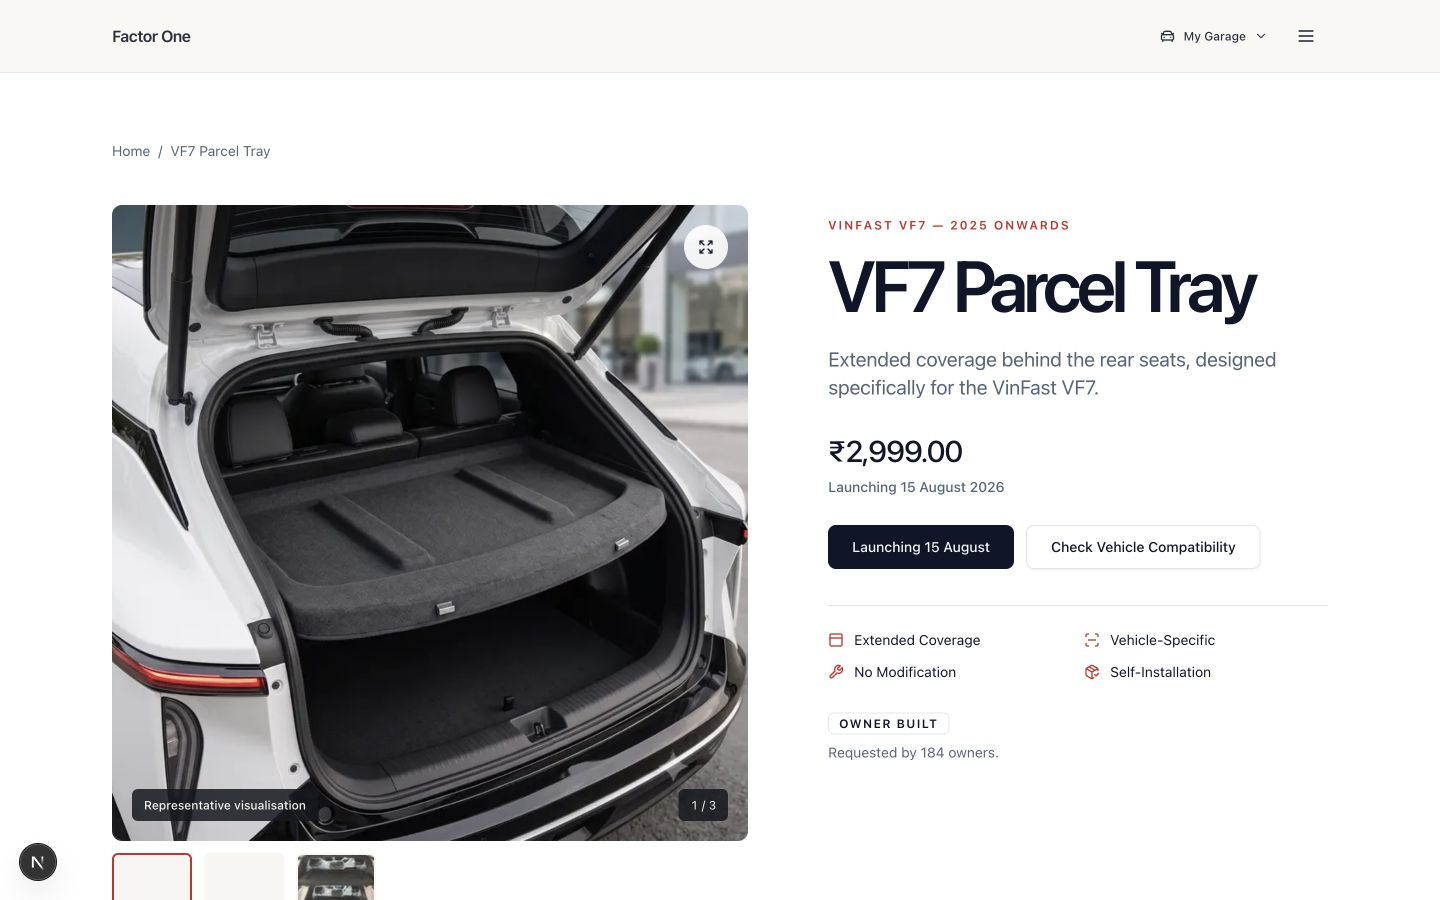
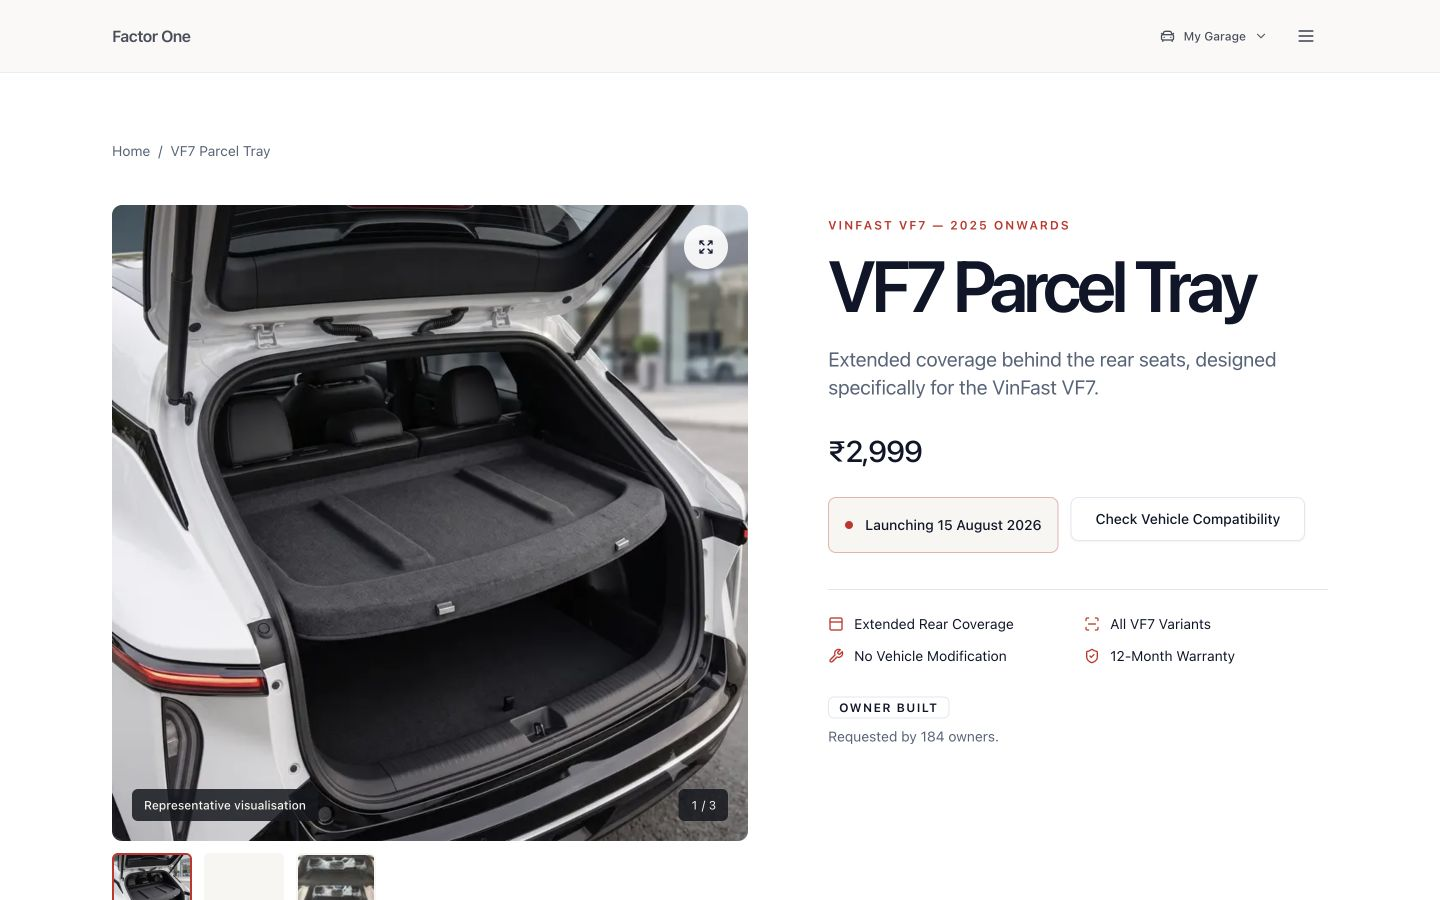
fix: refine Parcel Tray mobile presentation

diff --git a/apps/web/src/components/product/product-reference-page.tsx b/apps/web/src/components/product/product-reference-page.tsx
@@ -37,6 +37,8 @@ interface ProductReferencePageProps {
 function formatPrice(amountMinor: number, currency: string) {
   return new Intl.NumberFormat('en-IN', {
     currency,
+    maximumFractionDigits: 0,
+    minimumFractionDigits: 0,
     style: 'currency',
   }).format(amountMinor / 100);
 }
@@ -116,7 +118,7 @@ const coreBenefitItems = [
   {
     icon: ScanLine,
     title: 'Vehicle-Specific',
-    description: 'Developed for the VinFast VF7',
+    description: 'Listed for every supported VF7 variant',
   },
   {
     icon: Wrench,
@@ -128,6 +130,13 @@ const coreBenefitItems = [
     title: 'Self-Installation',
     description: 'No additional mounting hardware',
   },
+] as const;
+
+const heroTrustItems = [
+  { icon: PanelTop, title: 'Extended Rear Coverage' },
+  { icon: ScanLine, title: 'All VF7 Variants' },
+  { icon: Wrench, title: 'No Vehicle Modification' },
+  { icon: ShieldCheck, title: '12-Month Warranty' },
 ] as const;
 
 const ownershipItems = [
@@ -216,14 +225,14 @@ export function ProductReferencePage({
   return (
     <>
       <section
-        className="section-space scroll-mt-24 pt-10 sm:pt-14"
+        className="section-space scroll-mt-24 pt-5 sm:pt-10 lg:pt-14"
         aria-labelledby="product-heading"
       >
         <Container>
           <Breadcrumbs
             items={[{ href: '/', label: 'Home' }, { label: product.name }]}
           />
-          <div className="mt-8 grid items-start gap-9 lg:grid-cols-[minmax(0,1.12fr)_minmax(24rem,0.88fr)] lg:gap-14 xl:gap-20">
+          <div className="mt-3 grid items-start gap-6 sm:mt-5 sm:gap-8 lg:mt-8 lg:grid-cols-[minmax(0,1.12fr)_minmax(24rem,0.88fr)] lg:gap-14 xl:gap-20">
             <ProductHeroGallery media={media} productName={product.name} />
 
             <div className="lg:pt-3">
@@ -235,42 +244,45 @@ export function ProductReferencePage({
               </p>
               <h1
                 id="product-heading"
-                className="mt-4 text-balance text-5xl font-semibold leading-[0.94] tracking-[-0.06em] sm:text-6xl xl:text-7xl"
+                className="mt-2 text-balance text-5xl font-semibold leading-[0.94] tracking-[-0.06em] sm:mt-4 sm:text-6xl xl:text-7xl"
               >
                 {product.name}
               </h1>
-              <p className="text-muted-foreground mt-6 max-w-xl text-lg leading-8 sm:text-xl">
+              <p className="text-muted-foreground mt-3 max-w-xl text-lg leading-8 sm:mt-6 sm:text-xl">
                 {presentation.heroValueStatement}
               </p>
 
               {content.price ? (
-                <p className="mt-8 text-3xl font-medium tracking-[-0.045em]">
+                <p className="mt-4 text-3xl font-medium tracking-[-0.045em] sm:mt-8">
                   {formatPrice(
                     content.price.amountMinor,
                     content.price.currency,
                   )}
                 </p>
               ) : null}
-              {content.launchDate ? (
-                <p className="text-muted-foreground mt-2 text-sm font-medium">
-                  Launching {content.launchDate.label}
-                </p>
-              ) : null}
-
-              <div className="mt-7 flex flex-col gap-3 sm:flex-row">
-                <p
-                  className="bg-primary text-primary-foreground inline-flex h-11 items-center justify-center rounded-md px-6 text-sm font-medium"
-                  role="status"
-                >
-                  Launching 15 August
-                </p>
+              <div className="mt-4 flex flex-col gap-3 sm:mt-7 sm:flex-row">
+                {content.launchDate ? (
+                  <div
+                    className="border-factor-red/35 bg-warm inline-flex min-h-14 items-center gap-3 rounded-md border px-4 py-3 text-sm"
+                    role="status"
+                    aria-label={`Launch status: Launching ${content.launchDate.label}`}
+                  >
+                    <span
+                      className="bg-factor-red size-2 shrink-0 rounded-full"
+                      aria-hidden="true"
+                    />
+                    <span className="font-medium">
+                      Launching {content.launchDate.label}
+                    </span>
+                  </div>
+                ) : null}
                 <Button asChild variant="outline" size="lg" className="px-6">
                   <Link href="/compatibility">Check Vehicle Compatibility</Link>
                 </Button>
               </div>
 
-              <ul className="border-border mt-9 grid gap-3 border-t pt-6 text-sm sm:grid-cols-2">
-                {coreBenefitItems.map(({ icon: Icon, title }) => (
+              <ul className="border-border mt-6 grid gap-2 border-t pt-5 text-sm sm:mt-9 sm:grid-cols-2 sm:gap-3 sm:pt-6">
+                {heroTrustItems.map(({ icon: Icon, title }) => (
                   <li key={title} className="flex items-center gap-2.5">
                     <Icon
                       className="text-factor-red size-4"
@@ -331,14 +343,30 @@ export function ProductReferencePage({
           <p className="text-charcoal-foreground/72 max-w-md text-lg leading-8">
             The factory cargo area leaves an open section behind the rear seats.
           </p>
-          <div className="border-charcoal-foreground/20 grid min-h-52 place-items-center border-y py-10 sm:min-h-64">
-            <PanelTop
-              className="text-factor-red-contrast size-11"
+          <div
+            className="border-charcoal-foreground/20 relative min-h-52 overflow-hidden border-y py-10 sm:min-h-64"
+            role="img"
+            aria-label="Open gap behind rear seats."
+          >
+            <div
+              className="border-charcoal-foreground/30 absolute left-[14%] right-[14%] top-[28%] border-t"
               aria-hidden="true"
             />
-            <p className="text-charcoal-foreground/55 mt-4 max-w-xs text-center text-sm leading-6">
-              A restrained reference to the area owners asked to cover.
+            <div
+              className="border-charcoal-foreground/60 absolute left-[19%] right-[19%] top-[29%] h-16 rounded-t-md border-x border-t sm:h-20"
+              aria-hidden="true"
+            />
+            <div
+              className="border-factor-red absolute left-[19%] right-[19%] top-[62%] border-t-2"
+              aria-hidden="true"
+            />
+            <p className="text-factor-red-contrast absolute left-[19%] right-[19%] top-[66%] text-center text-sm font-medium leading-6">
+              Open gap behind rear seats.
             </p>
+            <div
+              className="border-charcoal-foreground/30 absolute bottom-[14%] left-[14%] right-[14%] border-t"
+              aria-hidden="true"
+            />
           </div>
         </div>
       </ProductSection>
@@ -486,12 +514,13 @@ export function ProductReferencePage({
           </div>
           <div>
             <h3 className="text-2xl font-medium tracking-[-0.04em]">
-              Built to belong.
+              Verified for every VF7 variant.
             </h3>
-            <p className="text-muted-foreground mt-4 max-w-md leading-7">
-              Compatibility stays clear so you can confirm the product listed
-              for your car before it launches.
-            </p>
+            {compatibility?.variants?.length ? (
+              <p className="text-muted-foreground mt-4 max-w-md leading-7">
+                {compatibility.variants.join(' · ')}
+              </p>
+            ) : null}
           </div>
         </div>
       </ProductSection>

diff --git a/apps/web/src/components/product/product-hero-gallery.tsx b/apps/web/src/components/product/product-hero-gallery.tsx
@@ -49,7 +49,7 @@ export function ProductHeroGallery({
   return (
     <section aria-label={`${productName} image gallery`}>
       <div
-        className="bg-warm group relative aspect-square touch-pan-y overflow-hidden rounded-lg"
+        className="bg-warm group relative aspect-[5/4] touch-pan-y overflow-hidden rounded-lg sm:aspect-square"
         onPointerDown={(event) => {
           pointerStartX.current = event.clientX;
           didSwipe.current = false;
